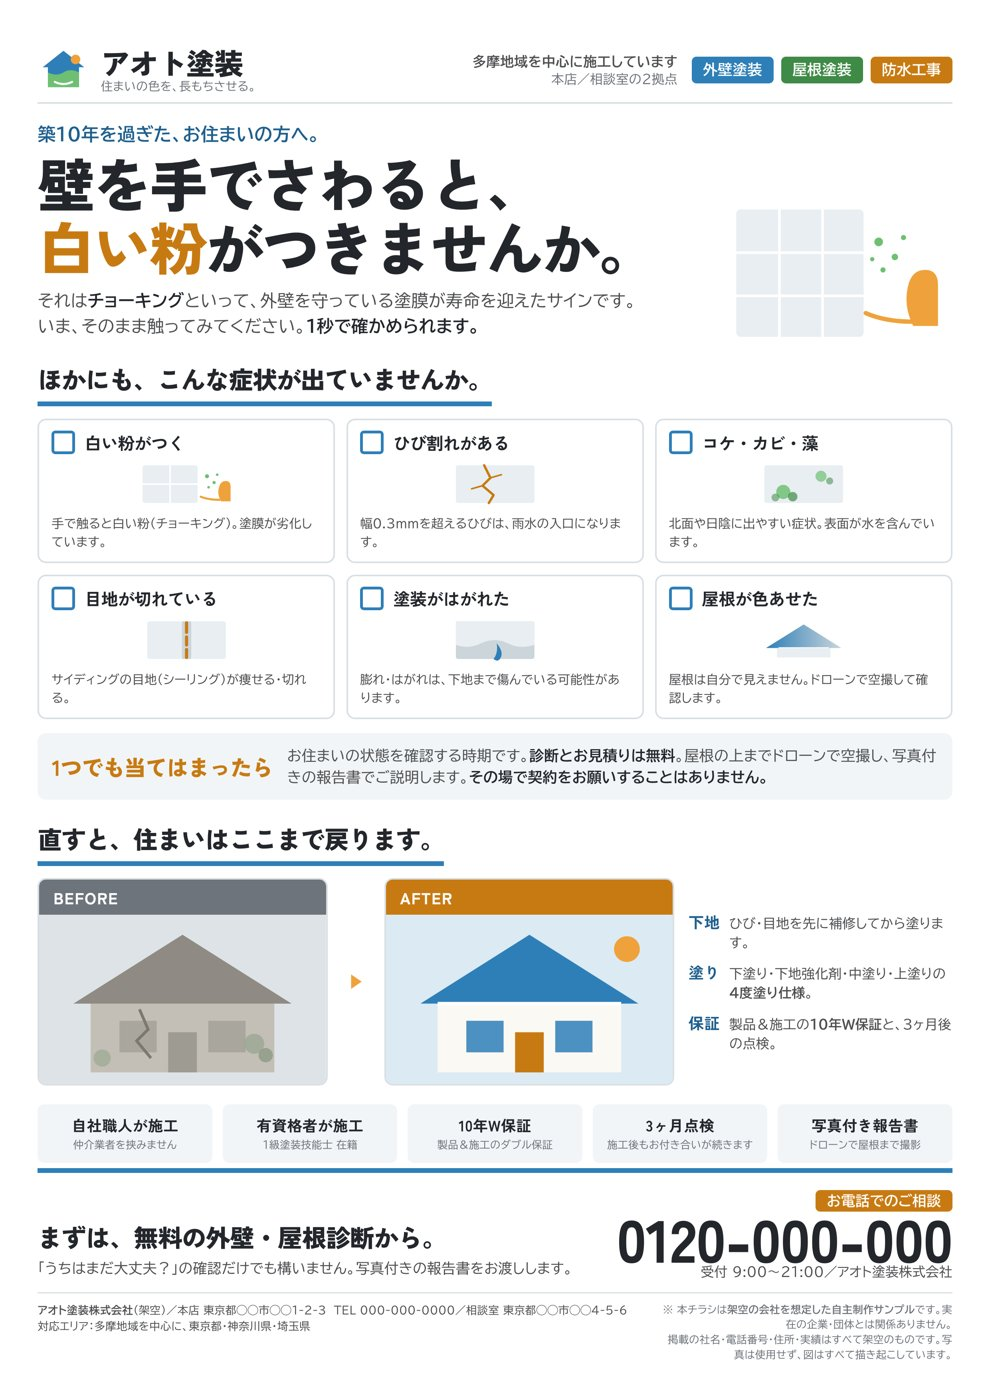
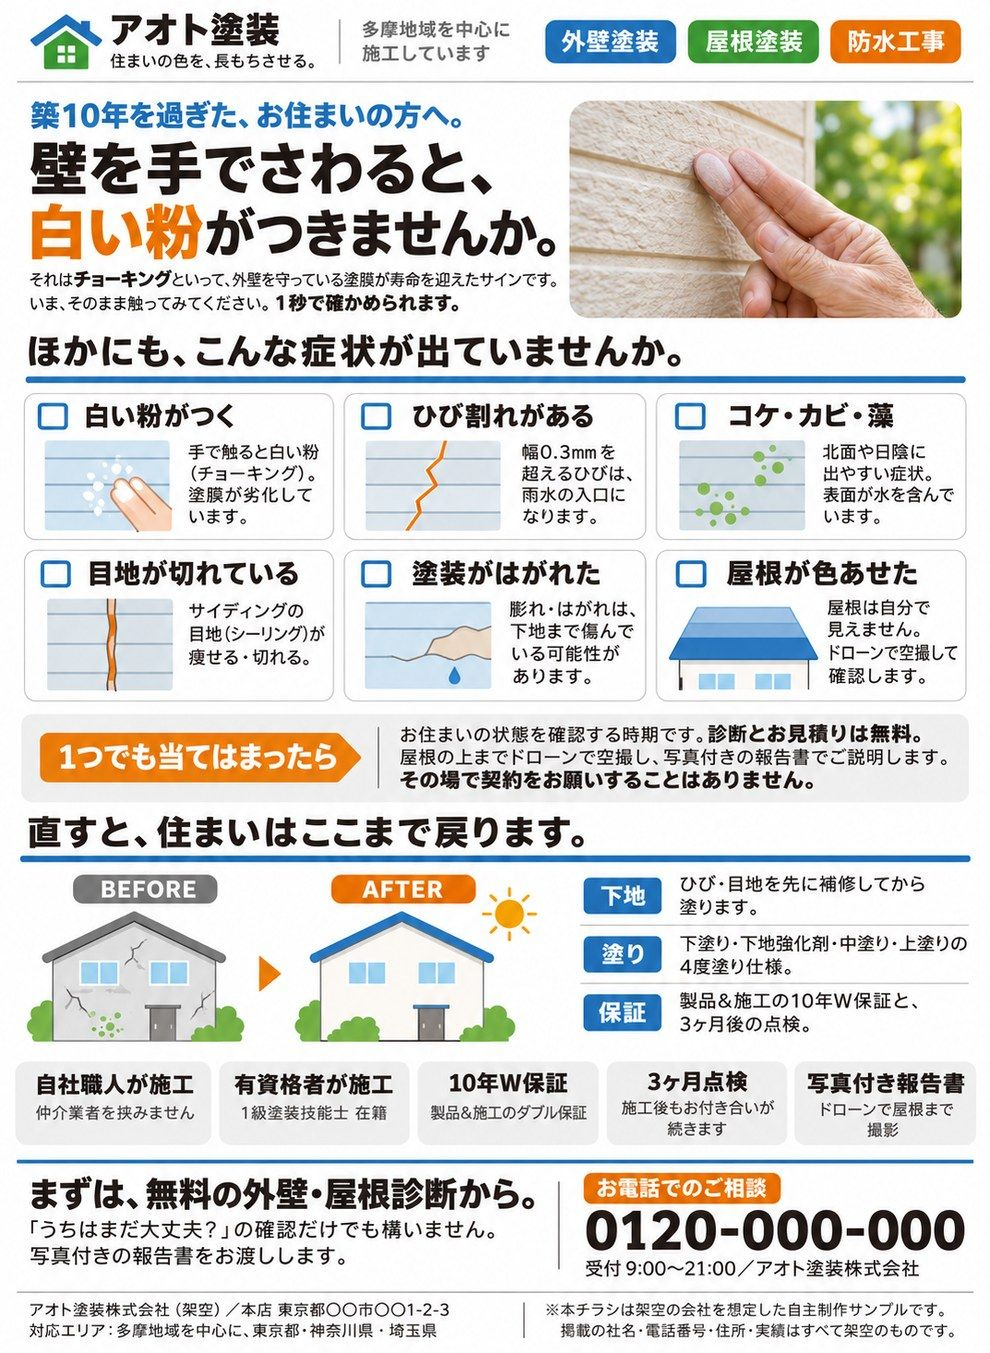
外壁塗装チラシを画像生成AI版に差し替え、説明文を実態に合わせて修正
Claude-Session: https://claude.ai/code/session_01AwAiUZPsUvC8xjwhcdts22

diff --git a/index.html b/index.html
@@ -469,7 +469,7 @@ html body .work-visual:has(.zt:checked),html body .work-mini-visual:has(.zt:chec
 
 <article class="work-feature reveal"><div class="work-visual"><img id="img-shichi-front" src="img/shichi_front.webp" alt="総合買取店の毛皮買取チラシ 表面（依頼主の情報はモザイク処理）" loading="lazy"><img id="img-shichi-back" class="lb-only" src="img/shichi_back.webp" alt="総合買取店の毛皮買取チラシ 裏面（依頼主の情報はモザイク処理）" loading="lazy"><div class="view-pair"><input type="checkbox" class="zt" id="z-shichi_front" aria-label="表面を見る ＋"><label class="view-full zl" for="z-shichi_front">表面を見る ＋</label><input type="checkbox" class="zt" id="z-shichi_back" aria-label="裏面を見る ＋"><label class="view-full zl" for="z-shichi_back">裏面を見る ＋</label></div></div><div class="work-info"><span class="pill label-won">● コンペ当選作</span><p class="work-type">01 / FLYER ・ 総合買取店</p><h3>はじめての人の不安に、<br>順番に答える。</h3><p><strong>毛皮の出張買取チラシ（A4両面・新聞折込）</strong><br>「いくらになる？」「売らなくても大丈夫？」。初めて売る人が気にすることを、表面では最低買取額で、裏面では5つのステップとよくある質問で、上から順に解消する構成にしました。</p><p class="work-note">2026年9月、ランサーズのコンペで採用。依頼主様の情報保護のため、社名・電話番号・所在地などはモザイクで伏せています。採用の記録は<a href="https://www.lancers.jp/profile/ge7188/feedback" target="_blank" rel="noopener noreferrer">ランサーズの評価欄</a>で確認できます。写真はイメージです。</p></div></article>
 
-<article class="work-feature reveal"><div class="work-visual"><img src="img/gaiheki.webp" alt="外壁塗装会社のポスティングチラシ（自主制作サンプル）" loading="lazy"><input type="checkbox" class="zt" id="z-gaiheki" aria-label="大きく見る ＋"><label class="view-full zl" for="z-gaiheki">大きく見る ＋</label></div><div class="work-info"><span class="pill label-own">● 自主制作サンプル</span><p class="work-type">02 / FLYER ・ 住まいのサービス</p><h3>説明より先に、<br>手を動かしてもらう。</h3><p><strong>外壁塗装会社のポスティングチラシ（A4）</strong><br>見出しを説明ではなく「その場でできる行動」にしました。壁をさわって粉がつけば、読む理由ができる。構成・コピー・図版まで通しで制作しています。</p><p class="work-note">社名・電話番号・住所はすべて架空です。写真は使わず、図版はすべて描き起こしました。</p><div class="work-links"><a href="https://ge7188-code.github.io/portfolio/flyer/about.html" target="_blank" rel="noopener noreferrer">制作の意図を読む ↗</a></div></div></article>
+<article class="work-feature reveal"><div class="work-visual"><img src="img/gaiheki.webp" alt="外壁塗装会社のポスティングチラシ（自主制作サンプル）" loading="lazy"><input type="checkbox" class="zt" id="z-gaiheki" aria-label="大きく見る ＋"><label class="view-full zl" for="z-gaiheki">大きく見る ＋</label></div><div class="work-info"><span class="pill label-own">● 自主制作サンプル</span><p class="work-type">02 / FLYER ・ 住まいのサービス</p><h3>説明より先に、<br>手を動かしてもらう。</h3><p><strong>外壁塗装会社のポスティングチラシ（A4）</strong><br>見出しを説明ではなく「その場でできる行動」にしました。壁をさわって粉がつけば、読む理由ができる。構成・コピーを設計し、画像生成AIで紙面に仕上げています。</p><p class="work-note">社名・電話番号・住所はすべて架空です。紙面は画像生成AIで作成しています（写真に見える部分もAI生成です）。</p><div class="work-links"><a href="https://ge7188-code.github.io/portfolio/flyer/about.html" target="_blank" rel="noopener noreferrer">制作の意図を読む ↗</a></div></div></article>
 
 <article class="work-feature alt reveal"><div class="work-visual cosme-visual"><img src="img/cosme.webp" alt="化粧品LPのPC表示（自主制作サンプル）" loading="lazy" class="pc-shot"><img src="img/cosme_sp.webp" alt="化粧品LPのスマホ表示（自主制作サンプル）" loading="lazy" class="sp-shot"><input type="checkbox" class="zt" id="z-cosme" aria-label="大きく見る ＋"><label class="view-full zl" for="z-cosme">大きく見る ＋</label></div><div class="work-info"><span class="pill label-own">● 自主制作サンプル</span><p class="work-type">03 / LP ・ 化粧品</p><h3>買う前の不安に、<br>上から順に答える。</h3><p><strong>保湿美容液のLP（スマホ対応・動きのあるデザイン）</strong><br>「肌に合うか」「お手入れが増えないか」「定期の縛り」「成分」。購入前の4つの不安に、スクロールの順番どおりに答える構成です。薬機法・景表法の範囲で言い回しから作りました。</p><p class="work-note">商品名・金額・お客様の声はダミーです。</p><div class="work-links"><a href="https://ge7188-code.github.io/portfolio/cosme-lp/" target="_blank" rel="noopener noreferrer">実際のページを見る ↗</a></div></div></article>
 

diff --git a/flyer/about.html b/flyer/about.html
@@ -104,7 +104,7 @@
     <li>「その場で契約をお願いすることはありません」を、判定バーの中に明記しました</li>
   </ul>
 
-  <h2>5. 価格は載せる。ただし主役にしない</h2>
+  <h2>5. 価格ではなく、判断材料を先に出す</h2>
   <div class="ba">
     <div>
       <div class="h">よくある構成</div>
@@ -113,42 +113,38 @@
     </div>
     <div>
       <div class="h">この紙面</div>
-      判断材料（症状・工程・保証）を上に、価格は下部に小さく。
-      費用は読者の最大の関心事なので<strong>消さない</strong>が、紙面の序列としては下げる。
+      判断材料（症状・工程・保証）を上から順に並べ、金額は載せていません。
+      費用は「<strong>診断とお見積りは無料</strong>」として、家の状態を確かめてから伝える形にしました。
     </div>
   </div>
 
   <h2>6. 40〜70代が読む紙面としての設計</h2>
   <ul>
-    <li><strong>本文は約8.4pt以上</strong>。可読性の下限を先に数値で決めてから、レイアウトを組みました</li>
-    <li>本文の書体は <strong>BIZ UDPGothic</strong>。文字の判別しやすさを目的に設計された UD書体（ユニバーサルデザイン書体）です</li>
-    <li>見出しは Zen Kaku Gothic New Black。本文と書体を変えることで、紙面に階層が生まれます</li>
+    <li><strong>本文も小さくしすぎない</strong>。紙面のいちばん小さい文字でも読める大きさを、生成の条件に入れています</li>
+    <li>見出しは太いゴシック、本文は読みやすいゴシック体。太さを変えることで、紙面に階層をつけています</li>
     <li>色数はブランドカラー3色に絞り、<strong>「面」ではなく「線・小さなラベル・アイコン」</strong>に使っています。
         色数×面積が増えると、同じ「カラフル」でも安売り感が出るためです</li>
   </ul>
 
-  <h2>7. 制作方法と、品質の担保</h2>
+  <h2>7. 制作方法</h2>
   <p>
-    紙面は HTML / CSS で <strong>mm 単位</strong>で組み、ヘッドレスブラウザから 300dpi で出力しています。
-    デザインツールで作るのに比べ、級数・余白・行間を数値で固定でき、修正が差分で効くのが利点です。
+    紙面は<strong>画像生成AI</strong>で仕上げています。生成の前に、全体の構造（どこに何を置くか）・入れる文字・配色・
+    入れてはいけないもの（煽り言葉・価格・赤いバッジなど）を指示書にまとめ、その指示書をもとに出力しました。
   </p>
-  <h3>はみ出しは、目視では見つからない</h3>
   <p>
-    レンダリングした画像は紙のサイズで切れるため、<strong>紙をはみ出した要素は絵として見えません。</strong>
-    そこで、紙面の高さ制限を外して再レンダリングし、コンテンツの最終行が何ミリの位置で終わるかを
-    <strong>実測するスクリプト</strong>を用意しました。この紙面は下マージン8mm以内（288.1mm / A4は297mm）に
-    収まっていることを実測で確認しています。
+    右上の手元の写真もAIで生成したものです。写真は「壁にさわる」という行動を見せる1枚だけにし、
+    症状とBEFORE/AFTERは図のままにしています。
   </p>
-  <h3>書体のライセンス</h3>
+  <h3>出力後の確認</h3>
   <p>
-    使用書体はいずれも SIL Open Font License 1.1 です。印刷・商用利用・データへの埋め込みが可能なため、
-    <strong>納品後にクライアント側で文字を差し替える際、ライセンス上の制約になりません。</strong>
+    AIは指示にない文字や数字を足すことがあります。そのため出力後に、
+    <strong>文字の崩れ・指定外の文字・煽り言葉・価格が入っていないか</strong>を目で確認しています。
   </p>
 
   <h2>8. 納品を想定した形</h2>
   <ul>
-    <li>印刷入稿用：A4・300dpi・塗り足し付きのデータ</li>
-    <li>編集用：文章・写真・掲載項目を差し替えられる形のデータ</li>
+    <li>印刷用：ご依頼時に、A4の入稿サイズ・解像度に合わせたデータを用意します</li>
+    <li>修正：文章や掲載項目を変えるときは、指示書を書き換えて作り直します</li>
     <li>表面のみのサンプルですが、同じ設計ルールで裏面（施工事例・料金・施工の流れ・会社情報）まで展開できます</li>
   </ul>
 

diff --git a/flyer/index.html b/flyer/index.html
@@ -58,16 +58,16 @@
   <header>
     <span class="tag">ポスティングチラシ / A4</span>
     <h1>壁を手でさわると、白い粉がつきませんか。</h1>
-    <p class="sub">外壁塗装会社のポスティングチラシ（架空案件・自主制作）。構成・コピー・レイアウト・図版まで通しで制作しました。</p>
+    <p class="sub">外壁塗装会社のポスティングチラシ（架空案件・自主制作）。ペルソナ・構成・コピー・レイアウトの指示までを設計し、画像生成AIで紙面に仕上げました。</p>
   </header>
 
   <figure>
     <img src="flyer_web.jpg" alt="外壁塗装のポスティングチラシ A4 表面">
-    <figcaption>A4 / 300dpi で出力。掲載している社名・電話番号・住所・実績はすべて架空のものです。</figcaption>
+    <figcaption>A4縦型の紙面イメージ（画像生成AIで作成）。掲載している社名・電話番号・住所・実績はすべて架空のものです。</figcaption>
   </figure>
 
   <div class="dl">
-    <a href="flyer_A4_300dpi.jpg">高解像度で見る（A4・300dpi / JPG）</a>
+    <a href="flyer_large.jpg">大きな画像で見る（JPG）</a>
     <a href="about.html">制作意図・設計方針</a>
   </div>
 
@@ -83,13 +83,12 @@
 
   <h2>仕様</h2>
   <table class="spec">
-    <tr><th>サイズ・体裁</th><td>A4（210×297mm）片面 / 300dpi / 塗り足し付きの入稿データも出力可</td></tr>
-    <tr><th>担当範囲</th><td>構成設計・キャッチコピー・本文ライティング・レイアウト・図版作成</td></tr>
-    <tr><th>使用写真</th><td><strong>なし。</strong>掲載している図版（家・症状アイコン・ロゴ）はすべて描き起こしです</td></tr>
-    <tr><th>書体</th><td>見出し：Zen Kaku Gothic New Black／本文：BIZ UDPGothic（UD書体）<br>いずれも SIL Open Font License 1.1</td></tr>
-    <tr><th>本文の級数</th><td>約8.4pt 以上。40〜70代の読者を想定し、可読性の下限を先に決めてから組んでいます</td></tr>
-    <tr><th>制作方法</th><td>HTML / CSS で mm 単位で組版し、ヘッドレスブラウザから 300dpi で出力。<br>紙面のはみ出しは目視ではなく<strong>実測スクリプトで検査</strong>（下マージン8mm以内を確認済み）</td></tr>
-    <tr><th>制作時期</th><td>2026年9月</td></tr>
+    <tr><th>サイズ・体裁</th><td>A4縦型・片面の紙面イメージ（1073×1466px）</td></tr>
+    <tr><th>担当範囲</th><td>ペルソナ設定・構成設計・キャッチコピー・本文ライティング・レイアウトの指示（生成の指示書）・仕上がりの確認</td></tr>
+    <tr><th>画像</th><td>紙面全体を<strong>画像生成AI</strong>で作成。右上の手元の写真もAI生成です。症状とBEFORE/AFTERは、写真ではなく図にしています</td></tr>
+        <tr><th>文字</th><td>見出しは太いゴシック、本文は読みやすいゴシック体。40〜70代の読者を想定し、本文も小さくしすぎないことを生成の条件にしています</td></tr>
+    <tr><th>制作方法</th><td>構造・文字・配色・禁止事項をまとめた指示書を書き、画像生成AIで出力。<br>出力後に<strong>文字の崩れ・指定外の文字・煽り言葉・価格</strong>が入っていないかを確認しています</td></tr>
+    <tr><th>制作時期</th><td>2026年9月（初版）／2026年11月（画像生成AIで作り直し）</td></tr>
   </table>
 
   <p class="links">・<a href="about.html">なぜこの構成にしたのか（制作意図・設計方針）</a></p>
